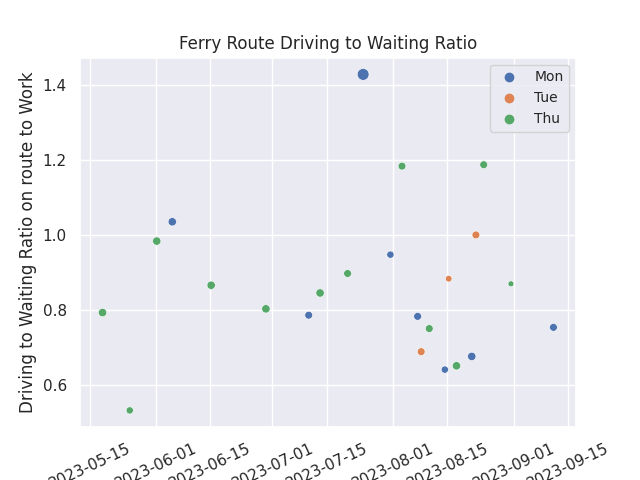
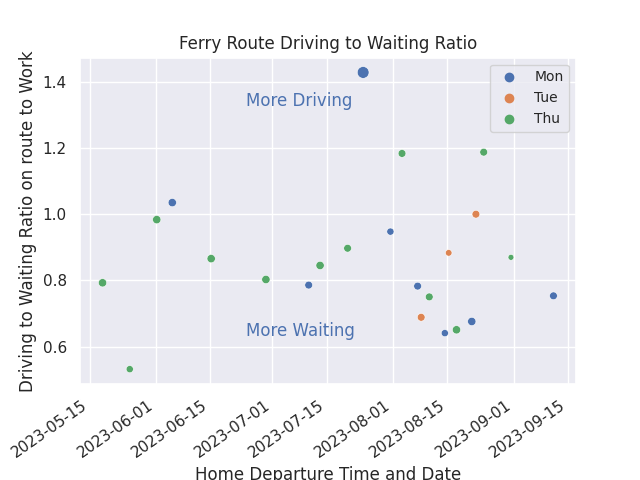
added text on ratio plot for interpretability

diff --git a/make_plots.py b/make_plots.py
@@ -338,12 +338,27 @@ def driving_and_waiting_vs_departure(filename, df, start='home', launch_port='so
     plt.clf()
 
     # Ratio plot
+    # Convert dates to a new format - MM-DD
+    # df[start + '_departure_time'] = [d.strftime('%m-%d') for d in df[start + '_departure_time']]
+    #TODO: x axis points are not spaced correctly
     ax = sns.scatterplot(data=df, x=start + '_departure_time', y='driving_to_waiting_ratio', hue='day_of_week', hue_order=['Mon', 'Tue', 'Thu'], s=1)
     ax = sns.scatterplot(data=df, x=start + '_departure_time', y='driving_to_waiting_ratio', hue='day_of_week', hue_order=['Mon', 'Tue', 'Thu'], size='mileage_to_' + end, legend=False) 
+    
+    # Rotate and align the tick labels so they look better
+    fig.autofmt_xdate()
+
+    # Add text to make understanding the ratio more intuitive
+    earliest = df[start + '_departure_time'].min()
+    latest = df[start + '_departure_time'].max()
+
+    median_date = earliest + ((latest - earliest) / 3.14)
+    ax.text(median_date, df['driving_to_waiting_ratio'].max() - 0.1, 'More Driving', c='b')
+    ax.text(median_date, df['driving_to_waiting_ratio'].min() + 0.1, 'More Waiting', c='b')
+
     ax.legend(loc=0, fontsize=10)
     ax.set(xlabel=start.capitalize() + ' Departure Time and Date',
        ylabel='Driving to Waiting Ratio on route to ' + end.capitalize(),
        title='Ferry Route Driving to Waiting Ratio')
-    plt.xticks(rotation=25) #TODO: Make these tick labels look good
+    plt.xticks(rotation=35) 
     plt.savefig(f'{plots_folder}/driving_waiting_ratio_vs_departure_from_{start}_to_{end}.png')
     plt.clf()

diff --git a/main.py b/main.py
@@ -23,15 +23,3 @@ filename = 'commuting_bellevue.csv'
 df = dp.process_data(filename)
 # mp.duration_vs_departure(filename, df, gbr=False, dtr=False, rfr=False, nn=False, xgb=False, ensemble_r=False)
 # mp.duration_vs_departure(filename, df, start='work', end='home', gbr=False, dtr=False, rfr=False, nn=False, xgb=False, ensemble_r=False)
-
-
-# from sklearn.metrics import mean_absolute_percentage_error, median_absolute_error, mean_absolute_error, mean_squared_error
-# y_pred = [11]
-# y_test = [10]
-# mape = mean_absolute_percentage_error(y_test, y_pred)
-# print(mape)
-
-# mde = median_absolute_error(y_test, y_pred)
-# mae = mean_absolute_error(y_test, y_pred)
-# mse = mean_squared_error(y_test, y_pred)
-# print(mde, mae, mse)
